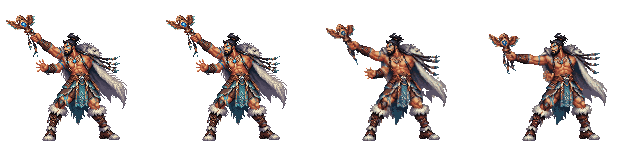
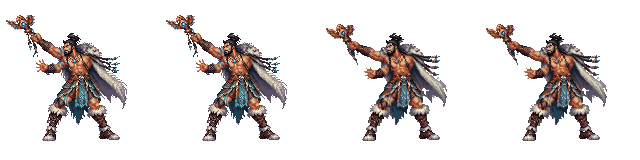
Fix Animations?

Changed region(s): [[0.75, 0.1562, 0.9688, 0.8125]]

diff --git a/js/core/version.js b/js/core/version.js
@@ -2,5 +2,5 @@
    (major.minor.patch); the engine version next to it comes from the engine and only changes with the rules. */
 import { ENGINE_VERSION } from '../engine/world.js';
 
-export const GAME_VERSION = '0.35.1';
+export const GAME_VERSION = '0.35.2';
 export const versionText = () => 'v' + GAME_VERSION + ' · engine ' + ENGINE_VERSION;

diff --git a/README.md b/README.md
@@ -200,6 +200,10 @@ The map fills the window and the HUD floats on top: level, wave and lives in the
 - **Choosing heroes for a level** starts with none picked; you can clear them all, but Start waits for at least one.
 - **Balance (bot):** lineups of three at a level-10 player win levels 1 and 2 every time and level 3 about two times in three; levels 4 and 5 are out of reach for the bot now (they reach waves 21 to 27). Solo heroes have a harder time on level 2 than before, since ultimates are now rare. The bot no longer evolves into the Occult when it plays alone, since that form deals no damage.
 
+## Paladin and Shaman attack fixes (Nov 16)
+- **Paladin:** the hammer no longer bends while she smashes. The in-between frames that stretched its handle are replaced by her smash pose, so the hammer keeps its shape (raised, then smashed down and held).
+- **Shaman:** his free hand no longer slips behind his body at the end of his cast; the frame that did it is gone and the cast ends on the frame where both hands are clear. Game version 0.35.2.
+
 ## The Shaman looks left (Nov 15)
 - The Shaman's art is mirrored so he looks to the left like the other heroes (same design; his staff is now in the other hand), and his cast was redrawn from the mirrored pose. Game version 0.35.1.
 
